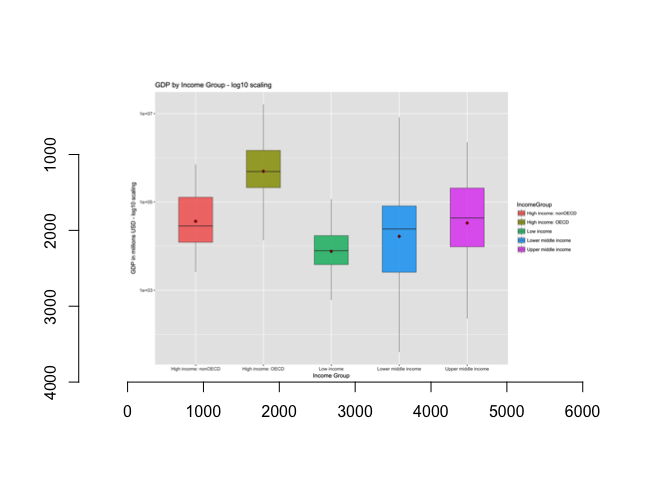
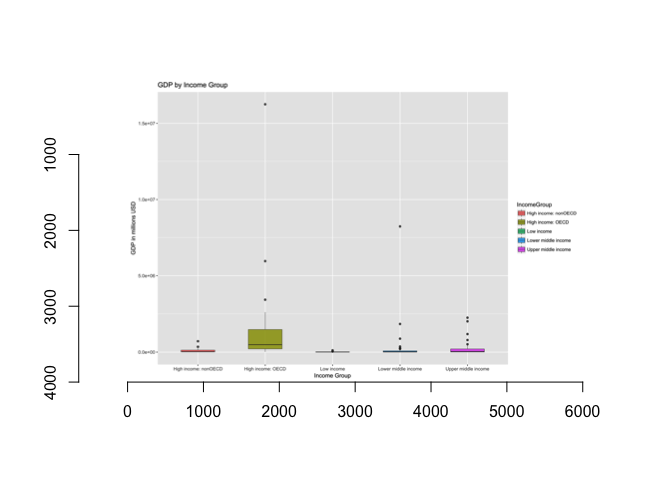
commit 5: codes to exam data sets

diff --git a/Paper/CaseStudy1_GDPstudy_HeidiNguyen.html b/Paper/CaseStudy1_GDPstudy_HeidiNguyen.html
@@ -244,18 +244,118 @@ source (&quot;casestudy1_download_data.R&quot;, print.eval=TRUE, echo=FALSE)</co
 <p>Data cleanup is imperative to any data analysis. The following section will walk through cleaning the data to prep for analysis.</p>
 <pre class="r"><code>setwd(&quot;/Volumes/NO NAME/Data Science/2016-0831 MSDS 6306 Doing Data Science/Unit 8/CaseStudy1/MSDS6306_CaseStudy1_HeidiNguyen/Data&quot;)
 source (&quot;casestudy1_clean_data.R&quot;, print.eval=FALSE, echo=FALSE)</code></pre>
+<p>Exam the cleaned GDP data. There are 190 observations.</p>
+<pre class="r"><code>setwd(&quot;/Volumes/NO NAME/Data Science/2016-0831 MSDS 6306 Doing Data Science/Unit 8/CaseStudy1/MSDS6306_CaseStudy1_HeidiNguyen/Data&quot;)
+print(head(GDP,10))</code></pre>
+<pre><code>##    CountryCode rank        CountryName GDP2012millionsUSD groupnote
+## 6          USA    1      United States           16244600          
+## 7          CHN    2              China            8227103          
+## 8          JPN    3              Japan            5959718          
+## 9          DEU    4            Germany            3428131          
+## 10         FRA    5             France            2612878          
+## 11         GBR    6     United Kingdom            2471784          
+## 12         BRA    7             Brazil            2252664          
+## 13         RUS    8 Russian Federation            2014775          
+## 14         ITA    9              Italy            2014670          
+## 15         IND   10              India            1841710</code></pre>
+<pre class="r"><code>print(str(GDP))</code></pre>
+<pre><code>## 'data.frame':    190 obs. of  5 variables:
+##  $ CountryCode       : chr  &quot;USA&quot; &quot;CHN&quot; &quot;JPN&quot; &quot;DEU&quot; ...
+##  $ rank              : int  1 2 3 4 5 6 7 8 9 10 ...
+##  $ CountryName       : chr  &quot;United States&quot; &quot;China&quot; &quot;Japan&quot; &quot;Germany&quot; ...
+##  $ GDP2012millionsUSD: num  16244600 8227103 5959718 3428131 2612878 ...
+##  $ groupnote         : chr  &quot;&quot; &quot;&quot; &quot;&quot; &quot;&quot; ...
+## NULL</code></pre>
+<pre class="r"><code>print(dim(GDP))</code></pre>
+<pre><code>## [1] 190   5</code></pre>
+<p>Exam the cleaned Education data. There are 210 observations.</p>
+<pre class="r"><code>print(head(educlean,10))</code></pre>
+<pre><code>##    CountryCode          IncomeGroup
+## 1          ABW High income: nonOECD
+## 2          ADO High income: nonOECD
+## 3          AFG           Low income
+## 4          AGO  Lower middle income
+## 5          ALB  Upper middle income
+## 6          ARE High income: nonOECD
+## 7          ARG  Upper middle income
+## 8          ARM  Lower middle income
+## 9          ASM  Upper middle income
+## 10         ATG  Upper middle income</code></pre>
+<pre class="r"><code>print(str(educlean))</code></pre>
+<pre><code>## 'data.frame':    210 obs. of  2 variables:
+##  $ CountryCode: chr  &quot;ABW&quot; &quot;ADO&quot; &quot;AFG&quot; &quot;AGO&quot; ...
+##  $ IncomeGroup: Factor w/ 6 levels &quot;&quot;,&quot;High income: nonOECD&quot;,..: 2 2 4 5 6 2 6 5 6 6 ...
+## NULL</code></pre>
+<pre class="r"><code>print(dim(educlean))</code></pre>
+<pre><code>## [1] 210   2</code></pre>
 </div>
 <div id="analyze-data" class="section level3">
 <h3>Analyze Data</h3>
-<p>The casestudy1_analyze_data.R file analyzes the data to answer the study questions.</p>
+<p>The casestudy1_analyze_data.R file merges and analyzes the data to answer the study questions.</p>
 <pre class="r"><code>setwd(&quot;/Volumes/NO NAME/Data Science/2016-0831 MSDS 6306 Doing Data Science/Unit 8/CaseStudy1/MSDS6306_CaseStudy1_HeidiNguyen/Analysis&quot;)
 source (&quot;casestudy1_analyze_data.R&quot;, print.eval=FALSE, echo=FALSE)</code></pre>
-<div id="question-1-there-are-189-matching-ids." class="section level4">
-<h4>Question 1: There are 189 matching IDs.</h4>
+<p>Merge the cleaned GDP data and the cleaned Education data by short country name. The resulting data looks like the following:</p>
+<pre class="r"><code>print(head(clean,10))</code></pre>
+<pre><code>##    CountryCode rank          CountryName GDP2012millionsUSD
+## 1          ABW  161                Aruba               2584
+## 2          ADO   NA                 &lt;NA&gt;                 NA
+## 3          AFG  105          Afghanistan              20497
+## 4          AGO   60               Angola             114147
+## 5          ALB  125              Albania              12648
+## 6          ARE   32 United Arab Emirates             348595
+## 7          ARG   26            Argentina             475502
+## 8          ARM  133              Armenia               9951
+## 9          ASM   NA                 &lt;NA&gt;                 NA
+## 10         ATG  172  Antigua and Barbuda               1134
+##             IncomeGroup
+## 1  High income: nonOECD
+## 2  High income: nonOECD
+## 3            Low income
+## 4   Lower middle income
+## 5   Upper middle income
+## 6  High income: nonOECD
+## 7   Upper middle income
+## 8   Lower middle income
+## 9   Upper middle income
+## 10  Upper middle income</code></pre>
+<pre class="r"><code>print(str(clean))</code></pre>
+<pre><code>## 'data.frame':    211 obs. of  5 variables:
+##  $ CountryCode       : chr  &quot;ABW&quot; &quot;ADO&quot; &quot;AFG&quot; &quot;AGO&quot; ...
+##  $ rank              : int  161 NA 105 60 125 32 26 133 NA 172 ...
+##  $ CountryName       : chr  &quot;Aruba&quot; NA &quot;Afghanistan&quot; &quot;Angola&quot; ...
+##  $ GDP2012millionsUSD: int  2584 NA 20497 114147 12648 348595 475502 9951 NA 1134 ...
+##  $ IncomeGroup       : chr  &quot;High income: nonOECD&quot; &quot;High income: nonOECD&quot; &quot;Low income&quot; &quot;Lower middle income&quot; ...
+## NULL</code></pre>
+<pre class="r"><code>print(dim(clean))</code></pre>
+<pre><code>## [1] 211   5</code></pre>
+<div id="question-1-finding-matching-ids" class="section level4">
+<h4>Question 1: Finding matching IDs</h4>
+<p>There are 189 matching IDs</p>
 <pre class="r"><code>print(dim(matchID))</code></pre>
 <pre><code>## [1] 189   4</code></pre>
-<div id="question-2-the-13th-country-from-the-sorted-data-is-st.kitts-and-nevis." class="section level5">
-<h5>Question 2: The 13th country from the sorted data is St. Kitts and Nevis.</h5>
+<p>There are 22 unmatching IDs</p>
+<pre class="r"><code>print(dim(nonmatchID))</code></pre>
+<pre><code>## [1] 22  4</code></pre>
+<div id="question-2-sort-the-matching-189-data-and-find-the-13th-country-from-the-sorted-data." class="section level5">
+<h5>Question 2: Sort the matching 189 data and find the 13th country from the sorted data.</h5>
+<p>Here is the sorted data by ascending rank:</p>
+<pre class="r"><code>print(head(matchIDsorted))</code></pre>
+<pre><code>##     CountryCode rank GDP2012millionsUSD         IncomeGroup quantile
+## 193         TUV  190                 40 Lower middle income       Q5
+## 101         KIR  189                175 Lower middle income       Q5
+## 124         MHL  188                182 Lower middle income       Q5
+## 151         PLW  187                228 Upper middle income       Q5
+## 174         STP  186                263 Lower middle income       Q5
+## 65          FSM  185                326 Lower middle income       Q5</code></pre>
+<pre class="r"><code>print(tail(matchIDsorted))</code></pre>
+<pre><code>##     CountryCode rank GDP2012millionsUSD         IncomeGroup quantile
+## 67          GBR    6            2471784   High income: OECD       Q1
+## 63          FRA    5            2612878   High income: OECD       Q1
+## 49          DEU    4            3428131   High income: OECD       Q1
+## 96          JPN    3            5959718   High income: OECD       Q1
+## 37          CHN    2            8227103 Lower middle income       Q1
+## 198         USA    1           16244600   High income: OECD       Q1</code></pre>
+<p>The 13th country from the sorted data is St. Kitts and Nevis.</p>
 <pre class="r"><code>print(matchIDsorted[13,])</code></pre>
 <pre><code>##     CountryCode rank GDP2012millionsUSD         IncomeGroup quantile
 ## 102         KNA  178                767 Upper middle income       Q5</code></pre>
@@ -269,8 +369,8 @@ print(mean(matchIDsorted[matchIDsorted$IncomeGroup == &quot;High income: OECD&qu
 <pre class="r"><code>print(mean(matchIDsorted[matchIDsorted$IncomeGroup == &quot;High income: nonOECD&quot;,&quot;rank&quot;]))</code></pre>
 <pre><code>## [1] 91.91304</code></pre>
 </div>
-<div id="question-4-box-plot-the-gdp-for-all-of-the-countries-by-income-group" class="section level4">
-<h4>Question 4: Box Plot the GDP for all of the countries by Income Group</h4>
+<div id="question-4-box-plot-the-gdp-for-all-of-the-189-matching-countries-by-income-group." class="section level4">
+<h4>Question 4: Box Plot the GDP for all of the 189 matching countries by Income Group.</h4>
 <div id="box-plot-before-log-transform" class="section level5">
 <h5>Box Plot before log transform</h5>
 <pre class="r"><code>plot(boxplot)</code></pre>

diff --git a/Paper/CaseStudy1_GDPstudy_HeidiNguyen.md b/Paper/CaseStudy1_GDPstudy_HeidiNguyen.md
@@ -134,14 +134,155 @@ setwd("/Volumes/NO NAME/Data Science/2016-0831 MSDS 6306 Doing Data Science/Unit
 source ("casestudy1_clean_data.R", print.eval=FALSE, echo=FALSE)
 ```
 
+Exam the cleaned GDP data. There are 190 observations. 
+
+
+```r
+setwd("/Volumes/NO NAME/Data Science/2016-0831 MSDS 6306 Doing Data Science/Unit 8/CaseStudy1/MSDS6306_CaseStudy1_HeidiNguyen/Data")
+print(head(GDP,10))
+```
+
+```
+##    CountryCode rank        CountryName GDP2012millionsUSD groupnote
+## 6          USA    1      United States           16244600          
+## 7          CHN    2              China            8227103          
+## 8          JPN    3              Japan            5959718          
+## 9          DEU    4            Germany            3428131          
+## 10         FRA    5             France            2612878          
+## 11         GBR    6     United Kingdom            2471784          
+## 12         BRA    7             Brazil            2252664          
+## 13         RUS    8 Russian Federation            2014775          
+## 14         ITA    9              Italy            2014670          
+## 15         IND   10              India            1841710
+```
+
+```r
+print(str(GDP))
+```
+
+```
+## 'data.frame':	190 obs. of  5 variables:
+##  $ CountryCode       : chr  "USA" "CHN" "JPN" "DEU" ...
+##  $ rank              : int  1 2 3 4 5 6 7 8 9 10 ...
+##  $ CountryName       : chr  "United States" "China" "Japan" "Germany" ...
+##  $ GDP2012millionsUSD: num  16244600 8227103 5959718 3428131 2612878 ...
+##  $ groupnote         : chr  "" "" "" "" ...
+## NULL
+```
+
+```r
+print(dim(GDP))
+```
+
+```
+## [1] 190   5
+```
+
+Exam the cleaned Education data. There are 210 observations.
+
+
+```r
+print(head(educlean,10))
+```
+
+```
+##    CountryCode          IncomeGroup
+## 1          ABW High income: nonOECD
+## 2          ADO High income: nonOECD
+## 3          AFG           Low income
+## 4          AGO  Lower middle income
+## 5          ALB  Upper middle income
+## 6          ARE High income: nonOECD
+## 7          ARG  Upper middle income
+## 8          ARM  Lower middle income
+## 9          ASM  Upper middle income
+## 10         ATG  Upper middle income
+```
+
+```r
+print(str(educlean))
+```
+
+```
+## 'data.frame':	210 obs. of  2 variables:
+##  $ CountryCode: chr  "ABW" "ADO" "AFG" "AGO" ...
+##  $ IncomeGroup: Factor w/ 6 levels "","High income: nonOECD",..: 2 2 4 5 6 2 6 5 6 6 ...
+## NULL
+```
+
+```r
+print(dim(educlean))
+```
+
+```
+## [1] 210   2
+```
+
 ### Analyze Data
-The casestudy1_analyze_data.R file analyzes the data to answer the study questions. 
+The casestudy1_analyze_data.R file merges and analyzes the data to answer the study questions. 
 
 ```r
 setwd("/Volumes/NO NAME/Data Science/2016-0831 MSDS 6306 Doing Data Science/Unit 8/CaseStudy1/MSDS6306_CaseStudy1_HeidiNguyen/Analysis")
 source ("casestudy1_analyze_data.R", print.eval=FALSE, echo=FALSE)
 ```
-#### Question 1: There are 189 matching IDs.
+
+Merge the cleaned GDP data and the cleaned Education data by short country name. The resulting data looks like the following: 
+
+
+```r
+print(head(clean,10))
+```
+
+```
+##    CountryCode rank          CountryName GDP2012millionsUSD
+## 1          ABW  161                Aruba               2584
+## 2          ADO   NA                 <NA>                 NA
+## 3          AFG  105          Afghanistan              20497
+## 4          AGO   60               Angola             114147
+## 5          ALB  125              Albania              12648
+## 6          ARE   32 United Arab Emirates             348595
+## 7          ARG   26            Argentina             475502
+## 8          ARM  133              Armenia               9951
+## 9          ASM   NA                 <NA>                 NA
+## 10         ATG  172  Antigua and Barbuda               1134
+##             IncomeGroup
+## 1  High income: nonOECD
+## 2  High income: nonOECD
+## 3            Low income
+## 4   Lower middle income
+## 5   Upper middle income
+## 6  High income: nonOECD
+## 7   Upper middle income
+## 8   Lower middle income
+## 9   Upper middle income
+## 10  Upper middle income
+```
+
+```r
+print(str(clean))
+```
+
+```
+## 'data.frame':	211 obs. of  5 variables:
+##  $ CountryCode       : chr  "ABW" "ADO" "AFG" "AGO" ...
+##  $ rank              : int  161 NA 105 60 125 32 26 133 NA 172 ...
+##  $ CountryName       : chr  "Aruba" NA "Afghanistan" "Angola" ...
+##  $ GDP2012millionsUSD: int  2584 NA 20497 114147 12648 348595 475502 9951 NA 1134 ...
+##  $ IncomeGroup       : chr  "High income: nonOECD" "High income: nonOECD" "Low income" "Lower middle income" ...
+## NULL
+```
+
+```r
+print(dim(clean))
+```
+
+```
+## [1] 211   5
+```
+
+#### Question 1: Finding matching IDs 
+
+There are 189 matching IDs
 
 ```r
 print(dim(matchID))
@@ -151,7 +292,51 @@ print(dim(matchID))
 ## [1] 189   4
 ```
 
-##### Question 2: The 13th country from the sorted data is St. Kitts and Nevis. 
+There are 22 unmatching IDs
+
+```r
+print(dim(nonmatchID))
+```
+
+```
+## [1] 22  4
+```
+
+##### Question 2: Sort the matching 189 data and find the 13th country from the sorted data.
+
+Here is the sorted data by ascending rank: 
+
+
+```r
+print(head(matchIDsorted))
+```
+
+```
+##     CountryCode rank GDP2012millionsUSD         IncomeGroup quantile
+## 193         TUV  190                 40 Lower middle income       Q5
+## 101         KIR  189                175 Lower middle income       Q5
+## 124         MHL  188                182 Lower middle income       Q5
+## 151         PLW  187                228 Upper middle income       Q5
+## 174         STP  186                263 Lower middle income       Q5
+## 65          FSM  185                326 Lower middle income       Q5
+```
+
+```r
+print(tail(matchIDsorted))
+```
+
+```
+##     CountryCode rank GDP2012millionsUSD         IncomeGroup quantile
+## 67          GBR    6            2471784   High income: OECD       Q1
+## 63          FRA    5            2612878   High income: OECD       Q1
+## 49          DEU    4            3428131   High income: OECD       Q1
+## 96          JPN    3            5959718   High income: OECD       Q1
+## 37          CHN    2            8227103 Lower middle income       Q1
+## 198         USA    1           16244600   High income: OECD       Q1
+```
+
+The 13th country from the sorted data is St. Kitts and Nevis. 
+
 
 ```r
 print(matchIDsorted[13,])
@@ -181,14 +366,15 @@ print(mean(matchIDsorted[matchIDsorted$IncomeGroup == "High income: nonOECD","ra
 ## [1] 91.91304
 ```
 
-#### Question 4: Box Plot the GDP for all of the countries by Income Group
+#### Question 4: Box Plot the GDP for all of the 189 matching countries by Income Group. 
+
 #####Box Plot before log transform
 
 ```r
 plot(boxplot)
 ```
 
-![](CaseStudy1_GDPstudy_HeidiNguyen_files/figure-html/unnamed-chunk-7-1.png)<!-- -->
+![](CaseStudy1_GDPstudy_HeidiNguyen_files/figure-html/unnamed-chunk-12-1.png)<!-- -->
 
 This plot indicates the GDP distributions for each Income Group are very skewed. A log 10 transformation is in order.
 
@@ -198,7 +384,7 @@ This plot indicates the GDP distributions for each Income Group are very skewed.
 plot(boxplotlog)
 ```
 
-![](CaseStudy1_GDPstudy_HeidiNguyen_files/figure-html/unnamed-chunk-8-1.png)<!-- -->
+![](CaseStudy1_GDPstudy_HeidiNguyen_files/figure-html/unnamed-chunk-13-1.png)<!-- -->
 
 The log transformed GDP Density Distibutions by Income Group plot shows that the distributions are relatively normal under a log 10 transformation with different variabilities between the groups.
 
